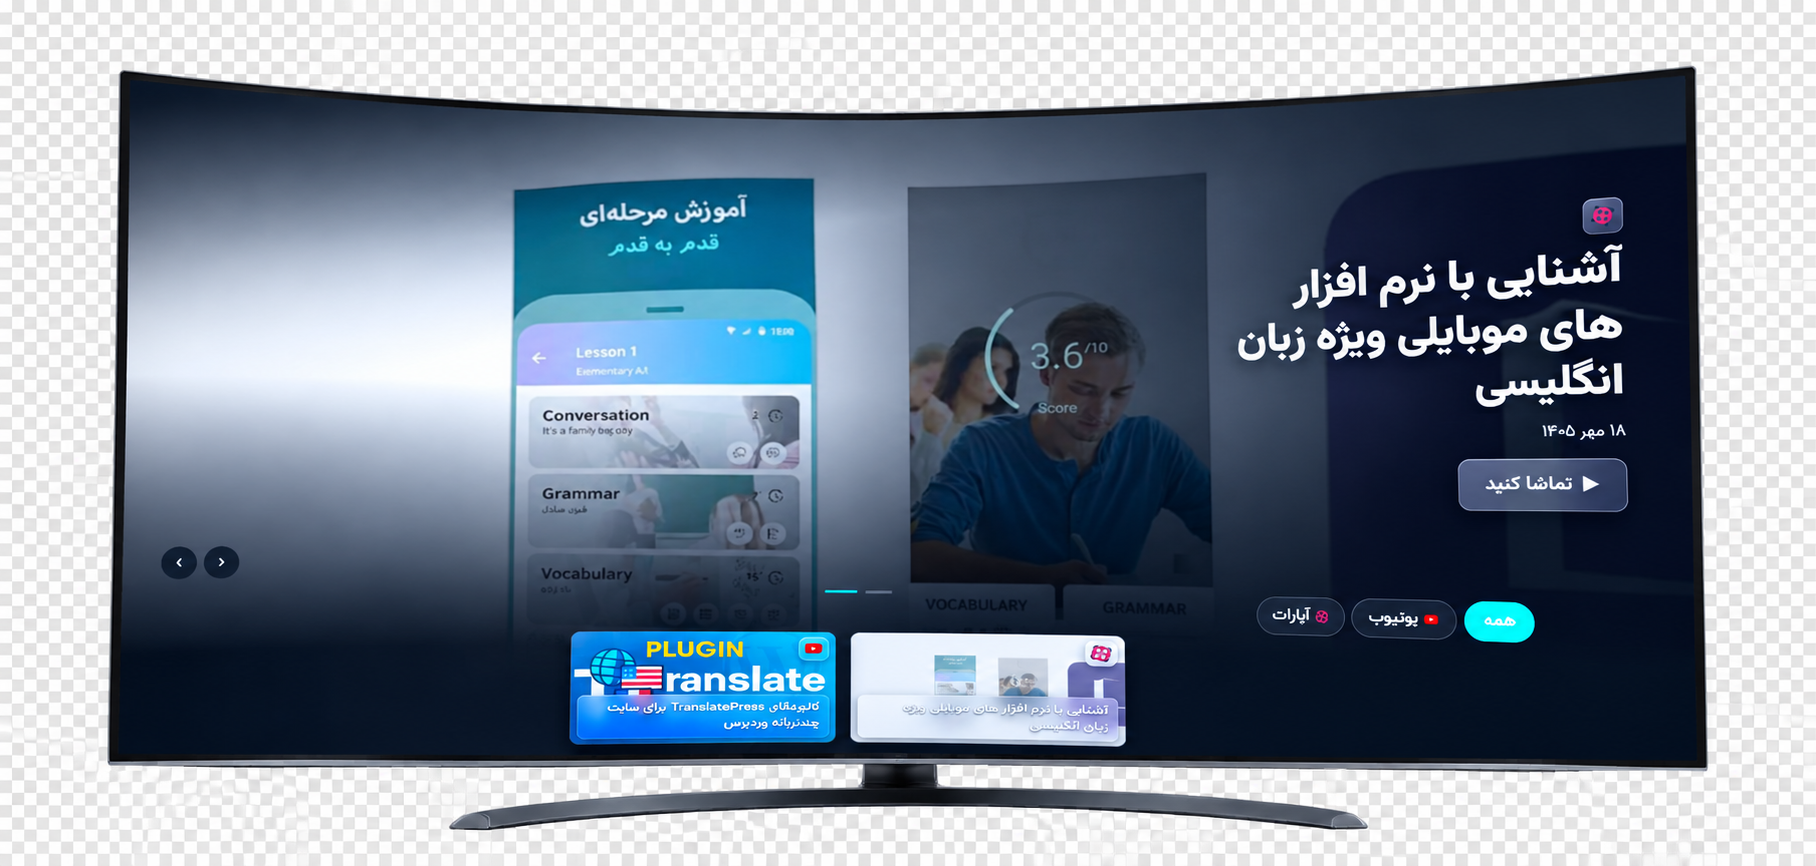
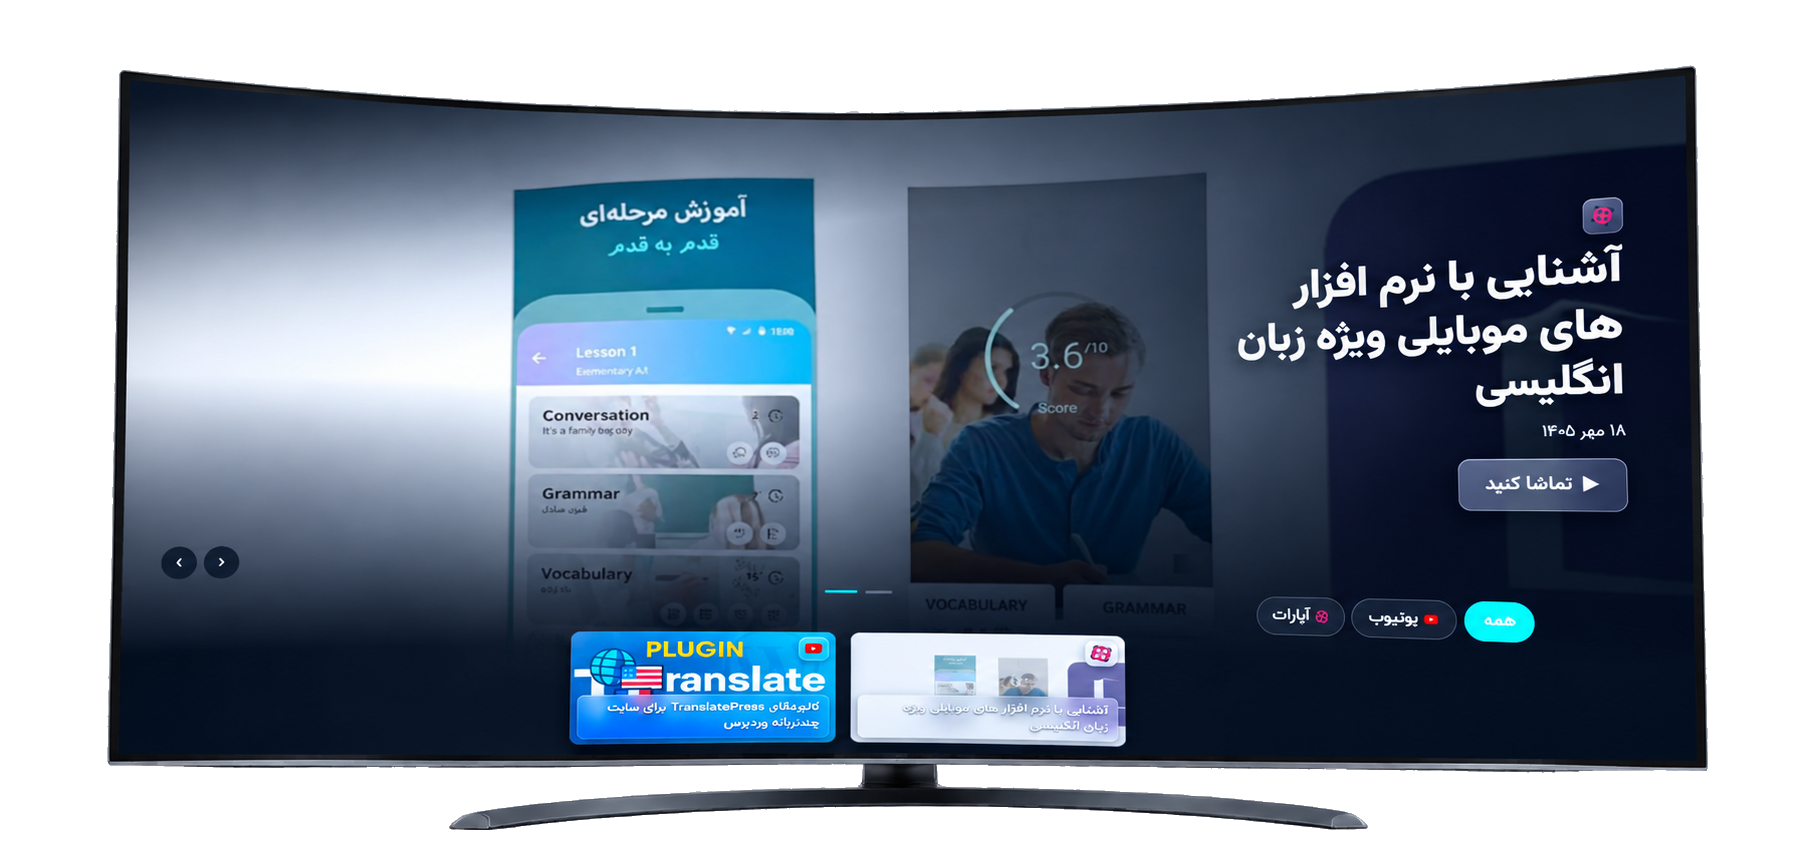
اصلاح ایرادات رابط کاربری و بهینهسازی ساختار هیرو و منوی موبایل

Changed region(s): [[0.0, 0.0, 1.0, 1.0]]

diff --git a/src/index.css b/src/index.css
@@ -28,8 +28,6 @@
   --dark-line: #e4e7ec;
   --text-dark: #0e121a;
   --text-body: #4a4a5a;
-  --red: #ff4d4d;
-  --green: #10b981;
   --radius: 16px;
   --radius-sm: 12px;
   --radius-lg: 24px;
@@ -91,10 +89,7 @@ h1, h2, h3, h4 { color: var(--text-dark); font-weight: 800; line-height: 1.4; le
   transition: background 0.3s var(--ease), box-shadow 0.3s var(--ease), border-color 0.3s var(--ease);
   border-bottom: 1px solid transparent;
 }
-.site-header--top {
-  background: transparent;
-  border-bottom-color: transparent;
-}
+.site-header--top { background: transparent; border-bottom-color: transparent; }
 .site-header--scrolled {
   background: rgba(9, 14, 24, 0.9);
   backdrop-filter: blur(14px);
@@ -139,21 +134,24 @@ h1, h2, h3, h4 { color: var(--text-dark); font-weight: 800; line-height: 1.4; le
   display: none;
   flex-direction: column;
   justify-content: center;
+  align-items: center;
   gap: 5px;
   width: 44px;
   height: 44px;
   border-radius: 10px;
   border: 1px solid var(--line);
-  align-items: center;
 }
 .hamburger span { width: 20px; height: 2px; background: #fff; border-radius: 2px; transition: transform 0.3s var(--ease), opacity 0.3s var(--ease); }
 .hamburger.open span:nth-child(1) { transform: translateY(7px) rotate(45deg); }
 .hamburger.open span:nth-child(2) { opacity: 0; }
 .hamburger.open span:nth-child(3) { transform: translateY(-7px) rotate(-45deg); }
 
+/* کشوی موبایل: در حالت بسته کاملاً بیرون از صفحه (سمت راست) است */
 .mobile-menu {
   position: fixed;
-  inset: 0 0 0 auto;
+  top: 0;
+  bottom: 0;
+  right: 0;
   width: min(320px, 84vw);
   background: #0b1220;
   border-left: 1px solid var(--line);
@@ -162,10 +160,11 @@ h1, h2, h3, h4 { color: var(--text-dark); font-weight: 800; line-height: 1.4; le
   display: flex;
   flex-direction: column;
   gap: 0.4rem;
-  transform: translateX(-105%);
-  transition: transform 0.35s var(--ease);
+  transform: translateX(105%);
+  visibility: hidden;
+  transition: transform 0.35s var(--ease), visibility 0.35s var(--ease);
 }
-.mobile-menu.open { transform: translateX(0); }
+.mobile-menu.open { transform: translateX(0); visibility: visible; }
 .mobile-menu .nav-link { padding: 0.85rem 0; border-bottom: 1px solid var(--line); font-size: 1rem; }
 .mobile-overlay {
   position: fixed;
@@ -179,33 +178,39 @@ h1, h2, h3, h4 { color: var(--text-dark); font-weight: 800; line-height: 1.4; le
 }
 .mobile-overlay.open { opacity: 1; pointer-events: auto; }
 
-/* --- هیرو --- */
+/* --- هیرو: فقط تصویر تلویزیون --- */
 .hero {
   position: relative;
   overflow: hidden;
-  color: #fff;
-  background:
-    radial-gradient(900px 520px at 78% 6%, rgba(0, 212, 255, 0.16), transparent 62%),
-    linear-gradient(160deg, #0b0b0f 0%, #0d1b2a 55%, #0a1420 100%);
+  background: #0b0b0f;
   margin-top: -74px;
-  padding: 158px 0 100px;
 }
-.hero-grid {
-  display: grid;
-  grid-template-columns: 1.05fr 1fr;
-  align-items: center;
-  gap: 3rem;
-}
-.hero h1 {
+.hero-tv { display: block; width: 100%; height: auto; }
+
+/* --- متن و دکمهها، پایین تصویر --- */
+.hero-intro {
+  position: relative;
+  overflow: hidden;
   color: #fff;
-  font-size: clamp(2rem, 4.4vw, 3.1rem);
-  line-height: 1.35;
-  margin: 1.3rem 0 1.1rem;
+  text-align: center;
+  padding: 76px 0 92px;
+  background:
+    radial-gradient(900px 520px at 50% -10%, rgba(0, 212, 255, 0.16), transparent 62%),
+    linear-gradient(#0b0b0f, #0d1b2a);
 }
-.hero h1 em { font-style: normal; color: var(--cyan); }
-.hero-sub { color: rgba(255, 255, 255, 0.72); font-size: 1.05rem; max-width: 540px; }
+.hero-intro h1 {
+  color: #fff;
+  font-size: clamp(1.85rem, 4vw, 2.85rem);
+  line-height: 1.42;
+  margin: 1.2rem auto 1rem;
+  max-width: 940px;
+}
+.hero-intro h1 em { font-style: normal; color: var(--cyan); }
+.hero-sub { color: rgba(255, 255, 255, 0.72); font-size: 1.05rem; max-width: 640px; margin: 0 auto; }
 .hero-actions { display: flex; flex-wrap: wrap; gap: 1.5rem; margin: 2.2rem 0 1.6rem; }
+.hero-intro .hero-actions { justify-content: center; }
 .hero-badges { display: flex; flex-wrap: wrap; gap: 1.2rem; }
+.hero-intro .hero-badges { justify-content: center; }
 .hero-badges li { display: flex; align-items: center; gap: 0.45rem; color: rgba(255, 255, 255, 0.8); font-size: 0.88rem; }
 .hero-badges li::before {
   content: '';
@@ -215,20 +220,9 @@ h1, h2, h3, h4 { color: var(--text-dark); font-weight: 800; line-height: 1.4; le
   border: 1px solid var(--cyan);
   box-shadow: inset 0 0 0 3px #0b0b0f;
 }
-.hero-visual { position: relative; }
-.hero-visual img {
-  width: 100%;
-  border-radius: var(--radius-lg);
-  border: 1px solid var(--line);
-  box-shadow: 0 40px 90px rgba(0, 0, 0, 0.5);
-}
 
 /* --- امکانات --- */
-.features-grid {
-  display: grid;
-  grid-template-columns: repeat(3, 1fr);
-  gap: 22px;
-}
+.features-grid { display: grid; grid-template-columns: repeat(3, 1fr); gap: 22px; }
 .feature-card {
   background: var(--card);
   border: 1px solid var(--dark-line);
@@ -333,23 +327,6 @@ h1, h2, h3, h4 { color: var(--text-dark); font-weight: 800; line-height: 1.4; le
 .faq-item.open .faq-a { max-height: 320px; }
 .faq-a p { padding: 0 22px 20px; color: var(--muted-dark); font-size: 0.94rem; }
 
-/* --- خرید --- */
-.purchase-card {
-  position: relative;
-  overflow: hidden;
-  border-radius: var(--radius-lg);
-  background:
-    radial-gradient(700px 380px at 50% -10%, rgba(0, 212, 255, 0.22), transparent 65%),
-    linear-gradient(150deg, #0d1b2a, #0b0b0f);
-  border: 1px solid var(--line);
-  padding: 64px 40px;
-  text-align: center;
-  color: #fff;
-}
-.purchase-card h2 { color: #fff; font-size: clamp(1.5rem, 3vw, 2.1rem); margin-bottom: 0.9rem; }
-.purchase-card p { color: rgba(255, 255, 255, 0.72); max-width: 560px; margin: 0 auto 2rem; }
-.purchase-meta { display: flex; justify-content: center; gap: 2rem; flex-wrap: wrap; margin-top: 2rem; color: var(--muted); font-size: 0.85rem; }
-
 /* --- فوتر --- */
 .site-footer { background: #0a1119; color: var(--muted); padding: 64px 0 28px; border-top: 1px solid var(--line); }
 .footer-grid { display: grid; grid-template-columns: 1.6fr 1fr 1fr; gap: 2.5rem; }
@@ -376,9 +353,6 @@ h1, h2, h3, h4 { color: var(--text-dark); font-weight: 800; line-height: 1.4; le
 @media (max-width: 980px) {
   .nav-links { display: none; }
   .hamburger { display: flex; }
-  .hero { margin-top: -74px; padding-top: 140px; }
-  .hero-grid { grid-template-columns: 1fr; gap: 2.4rem; }
-  .hero-visual { order: -1; }
   .features-grid { grid-template-columns: 1fr 1fr; }
   .steps-grid { grid-template-columns: 1fr; }
   .panel-row { grid-template-columns: 1fr; gap: 1.8rem; }
@@ -389,9 +363,8 @@ h1, h2, h3, h4 { color: var(--text-dark); font-weight: 800; line-height: 1.4; le
   .section { padding: 68px 0; }
   .container { padding: 0 18px; }
   .features-grid { grid-template-columns: 1fr; }
-  .hero { padding: 128px 0 72px; }
+  .hero-intro { padding: 56px 0 68px; }
   .hero-actions { gap: 1.1rem; }
-  .purchase-card { padding: 48px 22px; }
   .footer-grid { grid-template-columns: 1fr; }
   .footer-bottom { justify-content: center; text-align: center; }
 }

diff --git a/src/sections/Hero.jsx b/src/sections/Hero.jsx
@@ -5,9 +5,19 @@ const scrollTo = (sel) => () => document.querySelector(sel)?.scrollIntoView({ be
 
 export default function Hero() {
   return (
-    <section className="hero" id="top">
-      <div className="container hero-grid">
-        <div className="hero-copy">
+    <>
+      <section className="hero" id="top" aria-label="نمای افزونه">
+        <img
+          className="hero-tv"
+          src="/images/hero.png"
+          alt="نمای صفحهٔ تماشاگاه روی نمایشگر با اسلایدر ویدیوها و پخش در مودال"
+          width="1600"
+          height="900"
+        />
+      </section>
+
+      <section className="hero-intro">
+        <div className="container">
           <span className="eyebrow">افزونهٔ فارسی ویدیو برای وردپرس</span>
           <h1>
             ویدیوهای آپارات و یوتیوب را به <em>صفحهٔ تماشاگاه</em> وردپرس بیاورید
@@ -28,16 +38,7 @@ export default function Hero() {
             ))}
           </ul>
         </div>
-
-        <div className="hero-visual">
-          <img
-            src="/images/hero.png"
-            alt="نمای صفحهٔ تماشاگاه با اسلایدر ویدیوها و پخش در مودال"
-            width="1200"
-            height="800"
-          />
-        </div>
-      </div>
-    </section>
+      </section>
+    </>
   )
 }

diff --git a/src/sections/FaqSection.jsx b/src/sections/FaqSection.jsx
@@ -2,7 +2,7 @@ import { useState } from 'react'
 import { faqs } from '../data/plugin'
 
 export default function FaqSection() {
-  const [openIndex, setOpenIndex] = useState(0)
+  const [openIndex, setOpenIndex] = useState(-1)
 
   return (
     <section className="section section--light" id="faq">

diff --git a/AGENTS.md b/AGENTS.md
@@ -35,10 +35,18 @@ The app runs on port 3000. Vite dev server binds 0.0.0.0 with live reload.
 - No secrets required — the app runs entirely on the frontend.
 - The `.base44/environment.json` records `secrets: []` (none needed).
 
+## Hero layout
+The hero is **only** the TV image (`.hero` → `public/images/hero.png`). All copy, badges and the
+two glow buttons live in the `.hero-intro` section directly below it. `hero.png` was processed to
+make its baked-in light checkerboard background transparent (RGBA), so the TV composites cleanly
+onto the dark page background — keep it transparent if the image is ever replaced.
+
 ## Verifying it works
 - `curl -s -o /dev/null -w '%{http_code}' http://localhost:3000/` → 200
-- Hero shows two glow buttons; moving the pointer over a button changes the track light and the
-  glow opacity (edge glow follows the cursor).
-- FAQ accordion opens one item at a time.
-- Mobile (<980px): hamburger opens a right-side drawer, closes on overlay tap.
+- Hero shows only the TV image; the two glow buttons sit in the section below it. Moving the
+  pointer over a button changes the track light and the glow opacity (edge glow follows cursor).
+- FAQ accordion: all items start closed; opening one closes the others.
+- Mobile (<980px): hamburger opens a right-side drawer, closes on overlay tap. The closed drawer
+  must be fully off-screen (`translateX(105%)` + `visibility: hidden`) — anchoring it with
+  `right: 0` in RTL means a *negative* translate would slide it back INTO view.
 - No horizontal overflow at 360px or desktop widths.
